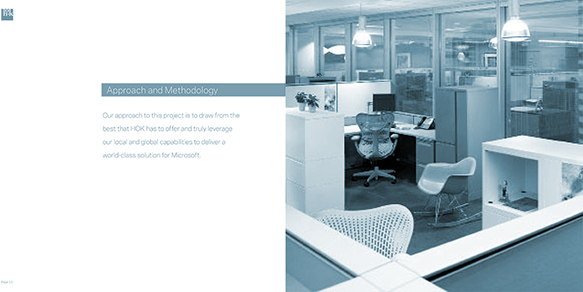
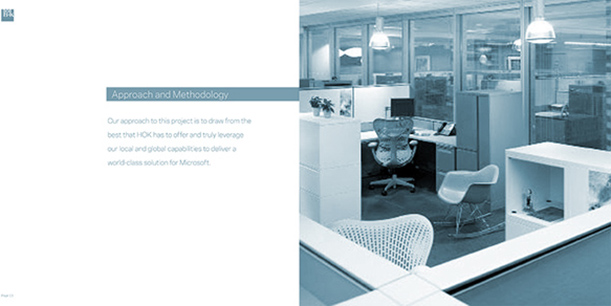
added div background colors to validate layout. Need to fix issues

diff --git a/css/main.css b/css/main.css
@@ -96,8 +96,8 @@ nav li {
 .grid-container {
   background-color: #ffffff;
   display: inline-grid;
-  grid-column-gap: 18px;
-  grid-template-columns: [col1] 196px [col2] 280px [col3] 186px [col4] 280px [col5] 186px [col6] 580px [col7] 186px [col8] 458px [col9] 186px;
+  grid-column-gap: 16px;
+  grid-template-columns: [col1] 196px [col2] 290px [col3] 186px [col4] 280px [col5] 186px [col6] 611px [col7] 186px [col8] 458px [col9] 186px;
   grid-template-rows: auto;
   margin-top: 156px;
      ::-webkit-scrollbar-thumb {
@@ -125,9 +125,11 @@ nav li {
   background-image: url('../img/AboutPortrait-sprite.jpg');
   background-repeat: no-repeat;
   overflow: hidden;
+  margin-right: 10px;
 }
 
 .col-2-item:hover {
+  background-color: lightseagreen;
   grid-column-start: 2;
   grid-column-end: 3;
   grid-row-start: 1;
@@ -138,6 +140,7 @@ nav li {
   background-repeat: no-repeat;
   background-position: right top;
   overflow: hidden;
+  margin-right: 10px;
 }
 
 .col-3-item {
@@ -149,6 +152,7 @@ nav li {
 }
 
 .col-4-item {
+  background-color: lightpink;
   grid-column-start: 4;
   grid-column-end: 5;
   grid-row-start: 1;
@@ -185,6 +189,8 @@ nav li {
 }
 
 .col-6-item {
+  border: 1px solid ##7F8C8D;
+  background-color: blue;
   grid-column-start: 6;
   grid-column-end: 7;
   grid-row-start: 1;
@@ -200,6 +206,8 @@ nav li {
 }
 
 .col-6-item:hover {
+  border: 1px solid ##7F8C8D;
+  background-color: pink;
   grid-column-start: 6;
   grid-column-end: 7;
   grid-row-start: 1;
